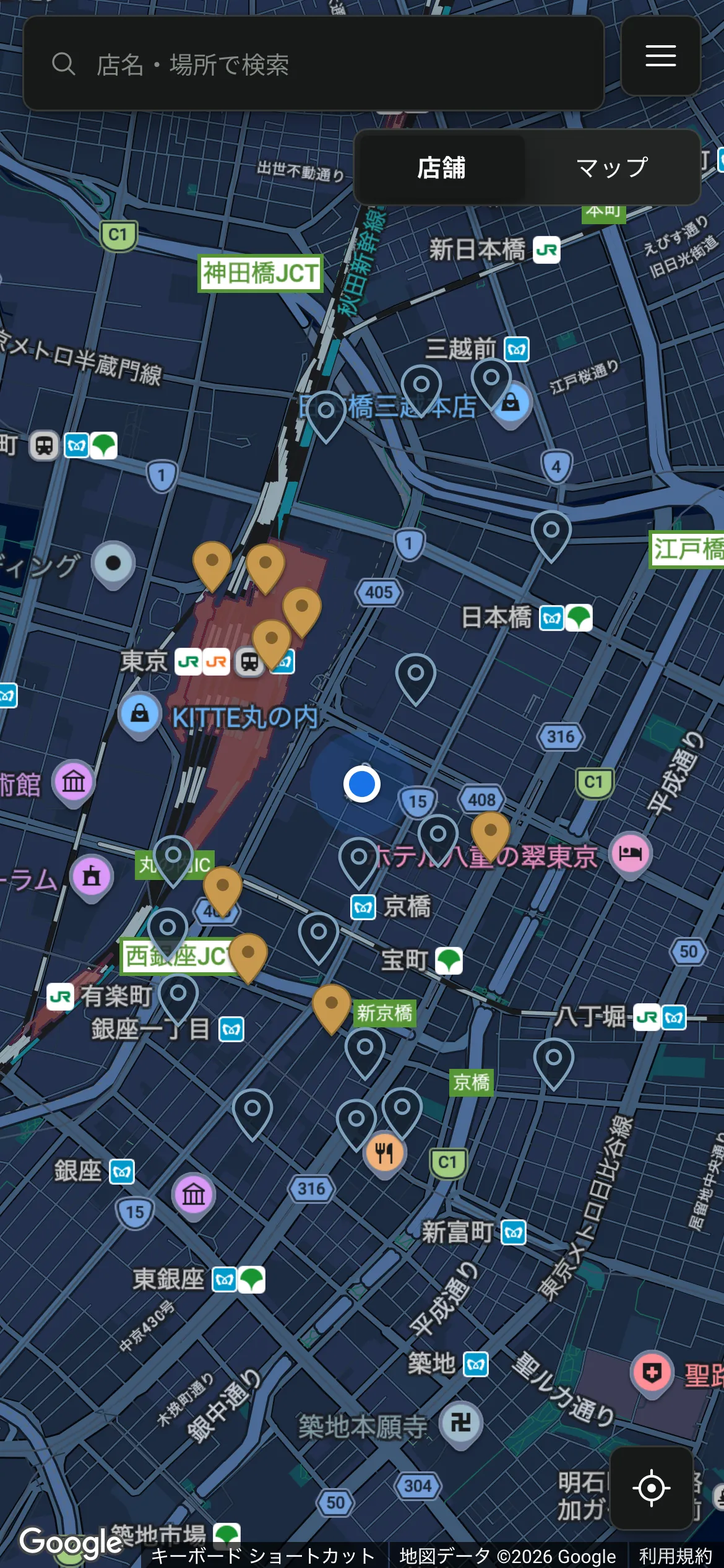
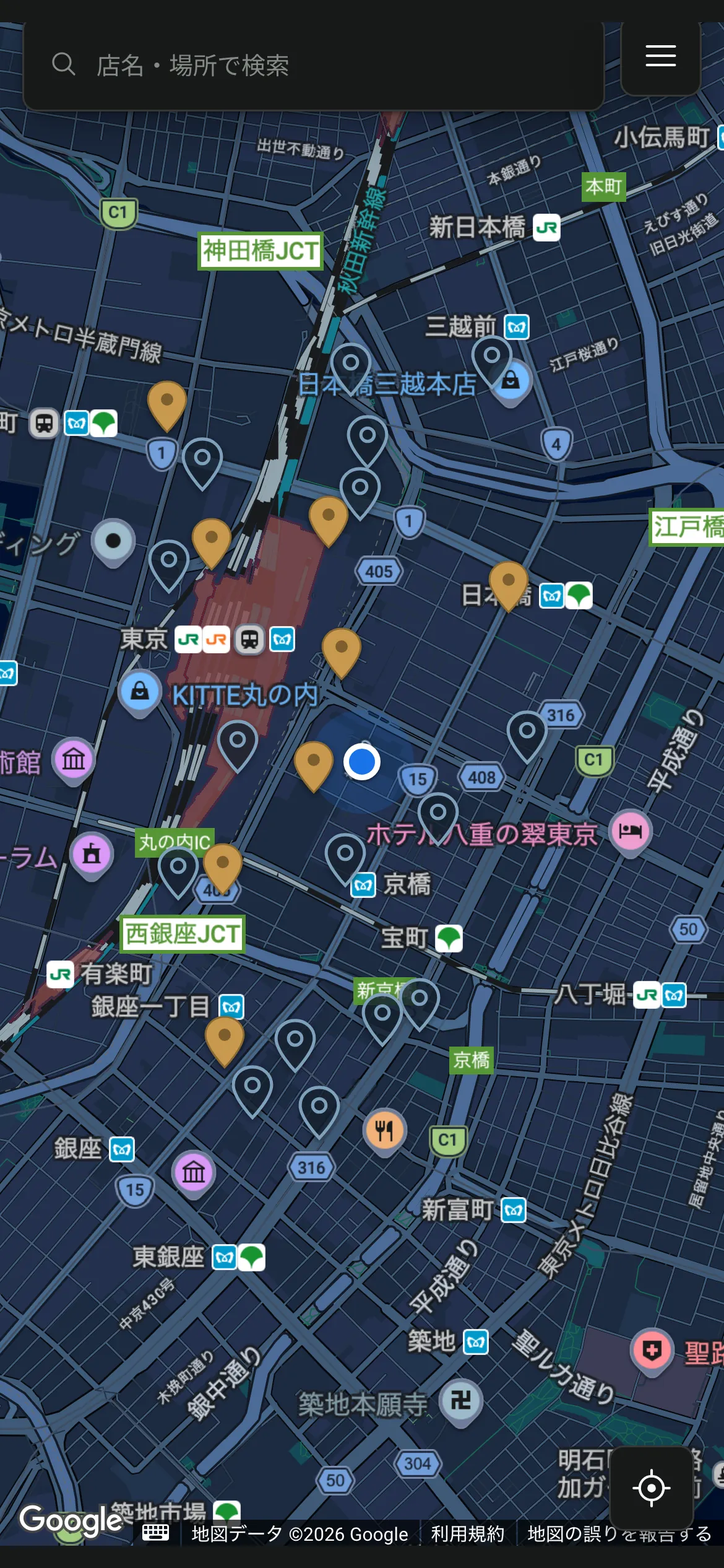
LP の画面の画像を今のアプリに合わせ、更新情報の欄の日付の崩れを直す

diff --git a/apps/web/src/app/page.tsx b/apps/web/src/app/page.tsx
@@ -9,6 +9,10 @@ import mapLight from './_public/lp/map-light.webp'
 import mapDark from './_public/lp/map-dark.webp'
 import mapR1Light from './_public/lp/map-r1-1b-light.webp'
 import mapR1Dark from './_public/lp/map-r1-1b-dark.webp'
+import sheetSaveLight from './_public/lp/sheet-save-light.webp'
+import sheetSaveDark from './_public/lp/sheet-save-dark.webp'
+import sheetRateLight from './_public/lp/sheet-rate-light.webp'
+import sheetRateDark from './_public/lp/sheet-rate-dark.webp'
 import appIcon from './_public/lp/app-icon.webp'
 import appStoreBadge from './_public/lp/app-store-badge-ja.svg'
 import appStoreQr from './_public/lp/app-store-qr.svg'
@@ -36,11 +40,13 @@ export const viewport: Viewport = {
   ],
 }
 
-// アプリの画面の実機の撮影(架空のデータ・1170x2532 の WebP)。OS の色の設定で light / dark を替える(next/image の getImageProps の形)。
+// アプリの画面(実物の地図に今のアプリの部品を重ねた合成。tools/lp-shots・架空のデータ・1170x2532 の WebP)。OS の色の設定で light / dark を替える(next/image の getImageProps の形)。
 // 画像は .phone-in の中で 390x844 に置いてから transform で縮めるので、最適化を通さず(unoptimized)静的な配信のままにする。
 const SHOTS = {
   'map-light': { light: mapLight, dark: mapDark },
   'map-r1-1b-light': { light: mapR1Light, dark: mapR1Dark },
+  'sheet-save-light': { light: sheetSaveLight, dark: sheetSaveDark },
+  'sheet-rate-light': { light: sheetRateLight, dark: sheetRateDark },
 } as const
 
 function Shot({ name, alt, eager = false }: { name: keyof typeof SHOTS; alt: string; eager?: boolean }) {
@@ -99,7 +105,7 @@ export default function Home() {
 <div className="s1-shot">
 <div className="phone"><div className="phone-in">
 <div className="app app-light">
-<Shot name="map-light" eager alt="hareMa の地図の画面。検索欄、店舗とマップの切り替え、保存した店のピン(行きたい 16・また行きたい 8)が地図に並ぶ。" />
+<Shot name="map-light" eager alt="hareMa の地図の画面。検索欄、保存した店のピン(行きたい 16・また行きたい 8)が地図に並ぶ。" />
 </div>
 </div></div>
 </div>
@@ -109,28 +115,8 @@ export default function Home() {
 <h2 className="h2 hd" id="w-h2-use">使い方は、3 つだけ。</h2>
 <div className="trio">
 <div className="phone"><div className="phone-in">
-<div className="app app-light" inert>
-<Shot name="map-light" alt="" />
-<div className="sh-scrim"></div>
-<div className="sh" role="dialog" aria-label="保存する">
-<div className="sh-top">
-<div className="sh-grab"></div>
-<div className="sh-name">喫茶 ことり</div>
-<div className="sh-addr">東京都台東区谷中 3 丁目</div>
-</div>
-<div className="sh-flow">
-<div className="sh-cap sh-cap-state">状態</div>
-<div className="sh-seg" role="group" aria-label="状態"><button type="button" className="on" aria-pressed="true">行きたい</button><button type="button" aria-pressed="false">また行きたい</button><button type="button" aria-pressed="false">もういい</button></div>
-<label className="sh-cap sh-cap-memo" htmlFor="w-memo">メモ</label>
-<textarea id="w-memo" className="sh-field sh-memo" placeholder="気になったこと、行きたい理由など（任意）"></textarea>
-<label className="sh-cap sh-cap-src" htmlFor="w-src">出典</label>
-<input id="w-src" className="sh-field" type="text" placeholder="URL またはテキスト（任意）" />
-<p className="sh-note">URL を貼ると、タイトルを自動で読み取ります（OGP）。</p>
-</div>
-<div className="sh-bottom">
-<button className="sh-cta" type="button">保存する <span className="arrow">→</span></button>
-</div>
-</div>
+<div className="app app-light">
+<Shot name="sheet-save-light" alt="" />
 </div>
 </div></div>
 <div className="phone"><div className="phone-in">
@@ -139,28 +125,8 @@ export default function Home() {
 </div>
 </div></div>
 <div className="phone"><div className="phone-in">
-<div className="app app-light" inert>
-<Shot name="map-light" alt="" />
-<div className="sh-scrim"></div>
-<div className="sh sh-edit" role="dialog" aria-label="更新する">
-<div className="sh-top">
-<div className="sh-grab"></div>
-<div className="sh-name">中華そば みやこ</div>
-<div className="sh-addr">東京都文京区本郷 4 丁目</div>
-</div>
-<div className="sh-flow">
-<div className="sh-seg" role="group" aria-label="状態"><button type="button" aria-pressed="false">行きたい</button><button type="button" className="on" aria-pressed="true">また行きたい</button><button type="button" aria-pressed="false">もういい</button></div>
-<label className="sh-cap sh-cap-memo" htmlFor="w-memo-edit">メモ</label>
-<textarea id="w-memo-edit" className="sh-field sh-memo" placeholder="気になったこと、行きたい理由など（任意）"></textarea>
-<label className="sh-cap sh-cap-src" htmlFor="w-src-edit">出典</label>
-<input id="w-src-edit" className="sh-field" type="text" placeholder="URL またはテキスト（任意）" />
-<p className="sh-note">URL を貼ると、タイトルを自動で読み取ります（OGP）。</p>
-</div>
-<div className="sh-bottom">
-<button className="sh-cta" type="button">更新する <span className="arrow">→</span></button>
-<button className="sh-del" type="button">削除する</button>
-</div>
-</div>
+<div className="app app-light">
+<Shot name="sheet-rate-light" alt="" />
 </div>
 </div></div>
 </div>

diff --git a/apps/web/src/app/lp.css b/apps/web/src/app/lp.css
@@ -81,39 +81,12 @@ body:has(.lp.qf) .edge-tint { background: var(--lp-bg); }
 }
 
 /* ---- app-screen.css(アプリの画面の部品。色は globals.css のトークンを読む = dark ではアプリの dark の値に替わる) ---- */
-.lp .app{--a-bg:var(--bg);--a-surface:var(--surface);--a-sunken:var(--bg-sunken);--a-fg1:var(--fg-1);--a-fg2:var(--fg-2);--a-fg3:var(--fg-3);--a-muted:var(--fg-muted);--a-border:var(--border);--a-border-subtle:var(--border-subtle);--a-border-strong:var(--border-strong);--a-accent:var(--accent);--a-akane:var(--akane-text);--a-shadow1:var(--shadow-1);--seg-shadow:0 1px 2px rgba(26,30,39,.16)}
+.lp .app{--a-bg:var(--bg);--a-fg1:var(--fg-1)}
 .lp .app{position:relative;display:block;width:390px;height:844px;overflow:hidden;background:var(--a-bg);color:var(--a-fg1);font-family:var(--font-noto-sans-jp),'Noto Sans JP',sans-serif;font-size:16px;line-height:1.75;letter-spacing:0;font-weight:400;text-align:left;-webkit-font-smoothing:antialiased;word-break:keep-all;overflow-wrap:anywhere;line-break:strict}
 .lp .app *,.lp .app *::before,.lp .app *::after{box-sizing:border-box}
 .lp .app p{margin:0}
 .lp .app button{margin:0;font-family:var(--font-noto-sans-jp),'Noto Sans JP',sans-serif;cursor:pointer}
 .lp .app-shot{position:absolute;left:0;top:0;display:block;width:390px;height:844px;max-width:none;margin:0;border:0}
-.lp .sh-scrim{position:absolute;left:0;top:0;right:0;bottom:0;background:var(--sheet-scrim);z-index:20}
-.lp .sh{position:absolute;left:0;right:0;bottom:0;z-index:21;display:flex;flex-direction:column;background:var(--a-surface);border-top:1px solid var(--a-border);border-radius:16px 16px 0 0;padding:10px 0 0;box-shadow:var(--sheet-shadow)}
-.lp .sh-top{padding:0 20px}
-.lp .sh-grab{width:40px;height:4px;border-radius:2px;background:var(--a-border-strong);margin:0 auto 16px}
-.lp .sh-name{font-family:var(--font-noto-serif-jp),'Noto Serif JP',serif;font-weight:700;font-size:19px;line-height:1.75;color:var(--a-fg1)}
-.lp .sh-addr{font-size:12px;line-height:1.75;color:var(--a-fg2);margin:4px 0 18px}
-.lp .sh-flow{padding:0 20px}
-.lp .sh-cap{display:block;font-family:var(--font-space-grotesk),'Space Grotesk',var(--font-noto-sans-jp),'Noto Sans JP',monospace;font-size:10px;line-height:1.75;letter-spacing:.16em;text-transform:uppercase;color:var(--a-fg2)}
-.lp .sh-cap-state{margin-bottom:8px}
-.lp .sh-cap-memo{margin:18px 0 8px}
-.lp .sh-cap-src{margin:16px 0 8px}
-.lp .sh-seg{display:flex;background:var(--a-sunken);border:1px solid var(--a-border);border-radius:6px;padding:3px;gap:3px}
-.lp .sh-seg button{flex:1;text-align:center;padding:9px 0;border:0;font-size:13px;line-height:1.75;color:var(--a-fg2);background:transparent}
-.lp .sh-seg button.on{font-weight:600;color:var(--a-fg1);background:var(--a-surface);border-radius:4px;box-shadow:var(--seg-shadow)}
-.lp .sh-field{display:block;width:100%;border:1px solid var(--a-border);border-radius:6px;padding:11px 12px;font-family:var(--font-noto-sans-jp),'Noto Sans JP',sans-serif;font-size:16px;line-height:1.5;color:var(--a-fg1);background:var(--a-surface);outline:none;margin:0}
-.lp .sh-field::placeholder{color:var(--a-fg3);opacity:1}
-.lp .sh-memo{min-height:66px;line-height:1.7;resize:none}
-.lp .sh-note{margin:7px 0 0;font-size:11px;line-height:1.75;color:var(--a-fg2)}
-.lp .sh-bottom{padding:18px 20px 26px}
-.lp .sh-cta{display:flex;align-items:center;justify-content:space-between;gap:16px;width:100%;padding:18px 0;background:transparent;border:0;border-top:1px solid var(--a-accent);border-bottom:1px solid var(--a-accent);border-radius:0;font-weight:700;font-size:15px;line-height:1.75;letter-spacing:.04em;color:var(--a-accent);text-align:left}
-.lp .sh-cta .arrow{font-family:var(--font-space-grotesk),'Space Grotesk',monospace;font-weight:400;font-size:18px;line-height:1}
-.lp .sh-del{display:flex;width:100%;justify-content:center;margin-top:10px;padding:10px 16px;font-size:14px;line-height:1.75;font-weight:500;letter-spacing:.02em;background:transparent;color:var(--a-akane);border:1px solid var(--a-border-strong);border-radius:2px}
-.lp .sh-edit .sh-grab{margin-bottom:14px}
-.lp .sh-edit .sh-addr{margin-bottom:14px}
-.lp .sh-edit .sh-cap-memo{margin-top:16px}
-.lp .sh-edit .sh-memo{min-height:52px}
-.lp .sh-edit .sh-bottom{padding:14px 20px 24px}
 
 /* ---- bw.css(構造・寸法・和文の折れ) ---- */
 .lp.bw{letter-spacing:.02em;line-height:1.7}
@@ -259,3 +232,5 @@ body:has(.lp.qf) .edge-tint { background: var(--lp-bg); }
 .lp .nws-t .sent{display:block}
 .lp .nws-all{margin-top:16px}
 @media (max-width:600px){.lp .nws-item{grid-template-columns:minmax(0,1fr);row-gap:4px}}
+/* PC 幅は札を日付の下の行に置く(所有者の決定 2026-11-13 案 B)。左の欄 160px に日付と札 2 つ(195px)が入らず語の途中で折れたため。札が増えたら次の行へ並ぶ。 */
+@media (min-width:601px){.lp .nws-meta{flex-wrap:wrap;align-content:flex-start;height:auto;padding:4px 0;row-gap:6px}.lp .nws-date,.lp .nws-tag{white-space:nowrap;flex:none}.lp .nws-date{width:100%}}

diff --git a/apps/web/src/app/_public/news.ts b/apps/web/src/app/_public/news.ts
@@ -19,6 +19,7 @@ export type NewsItem = {
 
 /** 新しい順。 */
 export const NEWS: readonly NewsItem[] = [
+  { date: '2026.11.14', targets: ['Web', 'Android'], title: '不具合の修正', texts: ['パソコンなどの広い画面で/更新情報の日付が/崩れる不具合を修正しました。'] },
   { date: '2026.11.13', targets: ['iPhone'], title: 'バージョン 1.0.1 を公開', texts: [
     'Google マップと/一部のウェブサイトからの共有に/お店の名前の自動入力を追加しました。',
     '地図のピンから開いた画面に/営業時間などの表示を追加しました。',
